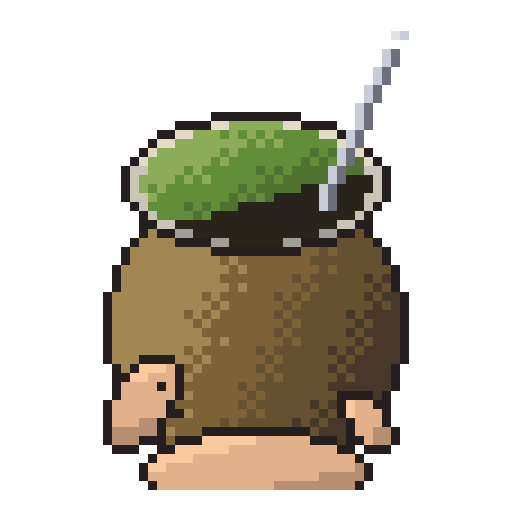
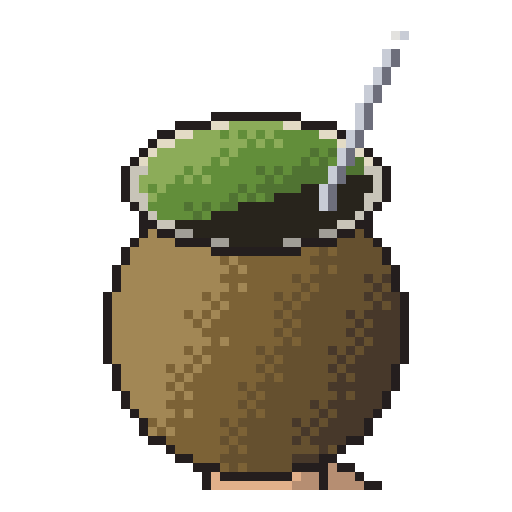
feat(rig): bendy arms in Selección sleeves, a gripping left hand, a stump for the gourd

Changed region(s): [[0.1875, 0.6875, 0.7812, 0.9688]]

diff --git a/src/scene.js b/src/scene.js
@@ -451,7 +451,7 @@ const RIG = {
 };
 const C = {
   ink: rgb(36, 30, 30), steel: rampOf([170, 176, 184]), cap: rampOf([196, 52, 44]), gourd: rampOf([124, 98, 54]),
-  rim: rampOf([200, 196, 184]), skin: rampOf([226, 176, 138]), sleeve: rampOf([62, 74, 96]), cuff: rampOf([84, 96, 118]),
+  rim: rampOf([200, 196, 184]), skin: rampOf([226, 176, 138]),
   thermos: rampOf([66, 112, 78]), cup: rampOf([58, 58, 62]),
   yerba: [98, 142, 58], yerbaWet: [52, 86, 40], yerbaPale: [176, 178, 128], hole: rgb(40, 36, 28),
   water: rgb(132, 186, 222), waterDeep: rgb(92, 150, 196), shine: rgb(236, 248, 255), stream: rgb(156, 206, 238),
@@ -485,47 +485,67 @@ function shape(x0, y0, x1, y1, inside, ramp) {
   return mask;
 }
 
-// A forearm from the bottom edge: tapered, a sleeve with a ribbed cuff, then skin to the wrist.
-function arm(fromX, fromY, toX, toY, w0, w1, sleeveTo) {
-  const len = Math.hypot(toX - fromX, toY - fromY), dx = (toX - fromX) / len, dy = (toY - fromY) / len;
-  const pad = Math.max(w0, w1) + 1;
-  shape(Math.min(fromX, toX) - pad, Math.min(fromY, toY) - pad, Math.max(fromX, toX) + pad, Math.min(H - 1, Math.max(fromY, toY) + pad), (x, y) => {
-    const a = (x - fromX) * dx + (y - fromY) * dy, b = (x - fromX) * -dy + (y - fromY) * dx;
-    const u = a / len, w = lerp(w0, w1, u);
-    if (a < 0 || a > len || Math.abs(b) > w) return null;
-    const side = b / w; // -1 lit edge, +1 shaded edge
-    if (u < sleeveTo - .1) return C.sleeve[clamp(Math.round(2.7 - side * 1.3 + (hash(x | 0, y | 0) > .9 ? -.5 : 0)), 1, 4)];
-    if (u < sleeveTo) return C.cuff[(Math.round(a) % 2 ? 2 : 3) - (side > .5 ? 1 : 0)];
+// Your arms: bendy tubes of even width curving up from the bottom edge, elbow out, in the celeste and white
+// short sleeves of the Selección.
+const JERSEY = [rampOf([116, 178, 226]), rampOf([236, 236, 230])];
+function arm(fromX, fromY, toX, toY, w, sleeveTo) {
+  const len = Math.hypot(toX - fromX, toY - fromY), bend = toX > fromX ? -10 : 10;
+  const cx = (fromX + toX) / 2 - (toY - fromY) / len * bend, cy = (fromY + toY) / 2 + (toX - fromX) / len * bend;
+  const pts = [];
+  for (let i = 0; i <= 32; i++) {
+    const t = i / 32, m = 1 - t;
+    pts.push([m * m * fromX + 2 * m * t * cx + t * t * toX, m * m * fromY + 2 * m * t * cy + t * t * toY]);
+  }
+  const pad = w + 1;
+  shape(Math.min(fromX, toX, cx) - pad, Math.min(fromY, toY, cy) - pad, Math.max(fromX, toX, cx) + pad, Math.min(H - 1, Math.max(fromY, toY, cy) + pad), (x, y) => {
+    let best = 1e9, k = 0;
+    for (let i = 0; i < pts.length; i++) { const d = (x - pts[i][0]) ** 2 + (y - pts[i][1]) ** 2; if (d < best) { best = d; k = i; } }
+    if (best > w * w) return null;
+    const [ax, ay] = pts[Math.max(0, k - 1)], [bx, by] = pts[Math.min(32, k + 1)], tl = Math.hypot(bx - ax, by - ay);
+    const side = ((x - pts[k][0]) * -(by - ay) + (y - pts[k][1]) * (bx - ax)) / tl / w * Math.sign(bend);
+    if (k / 32 < sleeveTo) return JERSEY[Math.floor((side + 1) * 2.5) % 2][clamp(Math.round(3 - side), 2, 4)];
     return C.skin[clamp(Math.round(2.9 - side * 1.2), 1, 4)];
   });
 }
 
-// Cartoon mitten hands: a few rounded lobes with one ink outline each and flat two-tone shading.
-function lobe(cx, cy, rx, ry, rot = 0, tone = 0) {
-  const c = Math.cos(rot), sn = Math.sin(rot), r = Math.max(rx, ry) + 1;
-  return shape(cx - r, cy - r, cx + r, cy + r, (x, y) => {
-    const dx = x - cx, dy = y - cy, u = (dx * c + dy * sn) / rx, v = (-dx * sn + dy * c) / ry;
-    if (u * u + v * v > 1) return null;
-    if (u * -.6 + v * -.8 > .55) return C.skin[4];          // highlight on the upper-left
-    return C.skin[(u * .5 + v * .85 > .35 ? 2 : 3) + tone];  // shade on the lower-right
+// A hand built from capsules [x0, y0, x1, y1, r0, r1] in screen space, later ones on top: one ink outline round
+// the silhouette and soft creases where one piece lies over another.
+const LIGHT = [-.6, -.8];
+function capsuleAt(x, y, [x0, y0, x1, y1, r0, r1]) {
+  const dx = x1 - x0, dy = y1 - y0, t = clamp(((x - x0) * dx + (y - y0) * dy) / (dx * dx + dy * dy || 1), 0, 1);
+  const ox = x - x0 - dx * t, oy = y - y0 - dy * t, d = Math.hypot(ox, oy), r = lerp(r0, r1, t);
+  return d > r ? null : [(ox * LIGHT[0] + oy * LIGHT[1]) / r, r - d];
+}
+function hand(parts) {
+  const tone = l => C.skin[l > .45 ? 4 : l > -.3 ? 3 : 2];
+  const box = parts.reduce((b, [x0, y0, x1, y1, r0, r1]) => {
+    const r = Math.max(r0, r1) + 1;
+    return [Math.min(b[0], x0 - r, x1 - r), Math.min(b[1], y0 - r, y1 - r), Math.max(b[2], x0 + r, x1 + r), Math.max(b[3], y0 + r, y1 + r)];
+  }, [1e9, 1e9, -1e9, -1e9]).map(Math.floor);
+  shape(...box, (x, y) => {
+    for (let i = parts.length - 1; i >= 0; i--) {
+      const h = capsuleAt(x, y, parts[i]);
+      if (!h) continue;
+      if (h[1] < .9 && parts.some((q, j) => j < i && capsuleAt(x, y, q))) return C.skin[1];
+      return tone(h[0]);
+    }
+    return null;
   });
 }
 
-// Your left hand around the thermos: a mitten wrapped across the body, a thumb pointing to the spout.
-function thermosHand(local, toScreen, half) {
-  const angle = Math.atan2(toScreen(1, 0)[0] - toScreen(0, 0)[0], -(toScreen(1, 0)[1] - toScreen(0, 0)[1]));
-  const rot = angle; // the mitten's long side runs across the thermos
-  const c = toScreen(-1.4, -.6);
-  lobe(c[0], c[1], half + 2.4, 6, rot);
-  // finger notches on the far edge
-  for (const a of [-3.2, -.6, 2]) {
-    for (let k = 0; k < 2; k++) {
-      const p = toScreen(a, half + 1.6 - k);
-      px(p[0], p[1], C.ink);
-    }
-  }
-  const th = toScreen(4.4, -half - .4);
-  lobe(th[0], th[1], 2.2, 4, rot);
+// Your left hand round the thermos, in its turning frame: the heel of the hand on the near side, four fingers
+// wrapped across the body and the thumb up its edge towards the spout.
+function thermosHand(toScreen, half) {
+  const cap = (a0, b0, a1, b1, r0, r1 = r0) => [...toScreen(a0, b0), ...toScreen(a1, b1), r0, r1];
+  hand([cap(-7.5, -half - 1.6, 1, -half - 1, 3.2, 3),
+    ...[2.2, -1.4, -5, -8.3].map((a, k) => cap(a, -half, a - .4, k === 3 ? half + .2 : half + 1.2, k === 3 ? 1.6 : 2)),
+    cap(.5, -half - 1.6, 6, -half + .8, 2.1, 1.7)]);
+}
+
+// Your right hand is a round stump the gourd sits on.
+function stump() {
+  const { body: g } = RIG, y = g.y + g.ry - 1;
+  hand([[g.x - 1, y, g.x + 3, y, 5.5, 5.5]]);
 }
 
 // An Argentine thermos: hammered green body, steel bands, a dark cup for a cap and the steel pouring spout.
@@ -548,23 +568,8 @@ function drawThermos(angle, glow) {
     return shadeOf(C.thermos, cyl + hammer, ix, iy);
   });
   if (glow) outlineGlow(mask);
-  thermosHand(local, toScreen, half);
+  thermosHand(toScreen, half);
   return toScreen(front, 0);
-}
-
-// Your right hand under the gourd: a cupped mitten with the fingers up one side and the thumb up the other.
-function gourdHand(full) {
-  const { body: g } = RIG;
-  if (!full) {
-    lobe(g.x + 2, g.y + g.ry - 3, 11, 5);
-    lobe(g.x - 6, g.y + g.ry - 7, 4, 3.4, -.5);
-    return;
-  }
-  // fingers and thumb first, so the palm overlaps their roots and they read as one hand
-  lobe(g.x - g.rx + 5, g.y + 9, 3.6, 6.4, .55);
-  lobe(g.x + g.rx - 4, g.y + 11, 2.6, 4.4, -.6);
-  lobe(g.x, g.y + g.ry - 1, 13, 5);
-  for (let k = 0; k < 2; k++) px(g.x - g.rx + 6 + k * 2, g.y + 6 + k * 3, C.ink);  // finger notches
 }
 
 function outlineGlow(mask) {
@@ -699,15 +704,15 @@ export function drawRig(state, t) {
   if (state.tutorial && state.phase === 'drink') fill *= 1 - clamp(state.phaseTime / T.DRINK_TIME, 0, 1);
   const angle = lerp(0, 105 * Math.PI / 180, inHand ? rigFx.tilt : 0);
 
-  // your right hand under the gourd (or empty and cupped while the mate goes round). Passing it, the hand
-  // lifts towards the table and lets go halfway through 'out'; it reaches up again to take it back.
+  // your right arm, the gourd sitting on its stump. Passing the mate, the arm lifts towards the table and
+  // lets go halfway through 'out'; it reaches up again to take it back.
   const { k: lift, holding } = rigReach(state);
   const home = { mx: RIG.mouth.x, my: RIG.mouth.y, bx: RIG.body.x, by: RIG.body.y };
   RIG.mouth.x += REACH[0] * lift; RIG.mouth.y += REACH[1] * lift; RIG.body.x += REACH[0] * lift; RIG.body.y += REACH[1] * lift;
-  arm(home.bx + 22, H + 8, RIG.body.x + 5, RIG.body.y + RIG.body.ry + 1, 8, 5, .62);
+  arm(home.bx + 22, H + 8, RIG.body.x + 1, RIG.body.y + RIG.body.ry - 1, 4.7, .3);
+  stump();
   if (holding && !inHand) {
     drawRigGourd(state.phase === 'out' ? fill : 0, state.yerba, state.wetTop, 0, false, 0, 0);
-    gourdHand(true);
   } else if (inHand) {
     const dry = state.tutorial && state.phase === 'pour' ? 1 - clamp(fill / T.FILL_OK, 0, 1) : 0;
     if (rigFx.turn !== state.turn) { rigFx.turn = state.turn; rigFx.scar = []; }
@@ -718,16 +723,15 @@ export function drawRig(state, t) {
     }
     const murk = clamp((state.turn.washed || 0) / .035, 0, 1);
     drawRigGourd(fill, state.yerba, state.wetTop, state.phase === 'pour' ? state.turn.overflow : 0, pulse, dry, murk);
-    gourdHand(true);
     if (fill > .15) drawSteam(t, fill);
-  } else gourdHand(false);
+  }
   Object.assign(RIG.mouth, { x: home.mx, y: home.my });
   Object.assign(RIG.body, { x: home.bx, y: home.by });
 
   // your left hand on the thermos
   if (T.TILT_GUIDE && state.phase === 'pour' && inHand) drawTiltGuide(rigFx.tilt);
   const wrist = [RIG.pivot.x - Math.cos(angle) * (RIG.thermo.half + 3), RIG.pivot.y - Math.sin(angle) * (RIG.thermo.half + 3) + 2];
-  arm(RIG.pivot.x - 34, H + 8, wrist[0], wrist[1], 8, 4.5, .6);
+  arm(RIG.pivot.x - 34, H + 8, wrist[0], wrist[1], 4.45, .3);
   const spout = drawThermos(angle, pulse);
   if (state.flow > 0 && state.phase !== 'over') {
     const land = landingPoint(state.land, state.yerba);
